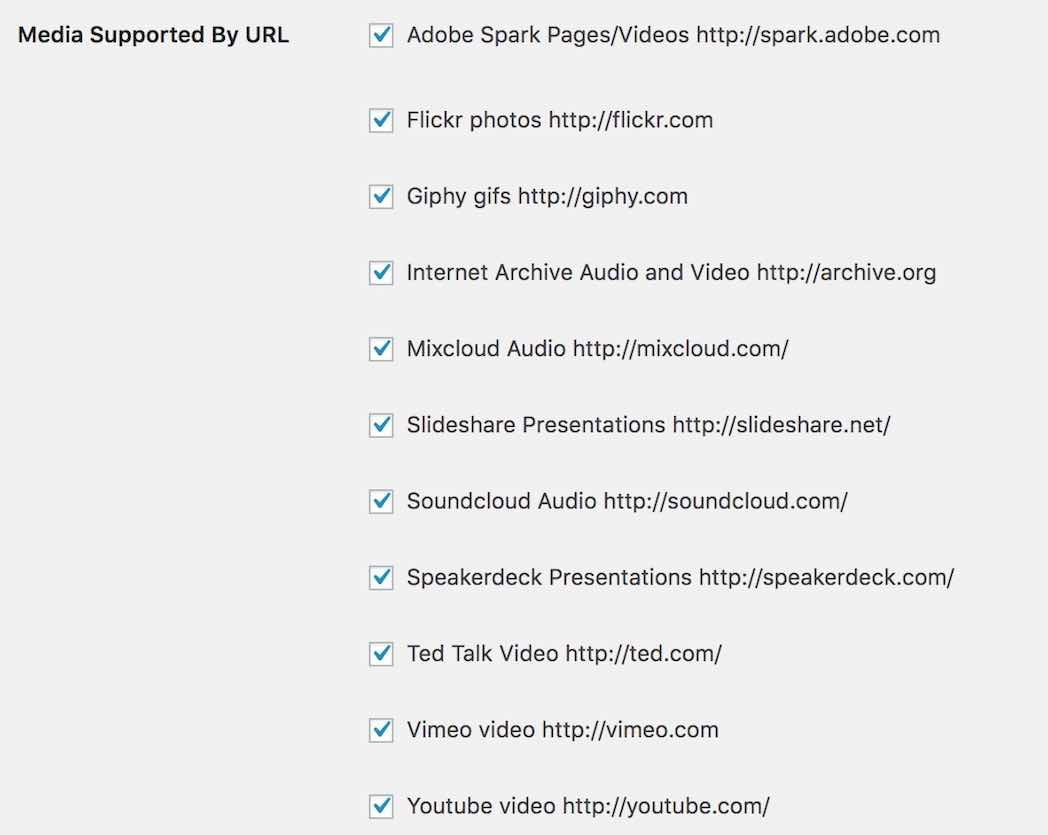
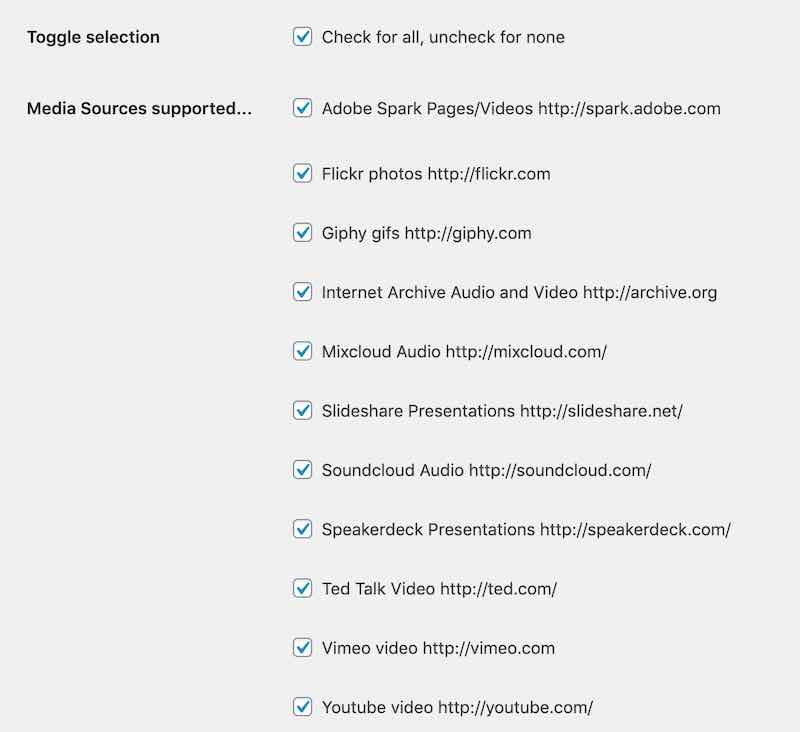
Audio Recording Added to Docs

diff --git a/style.css b/style.css
@@ -2,8 +2,8 @@
 Theme Name: 	Splotbox
 Theme URI: 		http://github.com/cogdog/splotbox
 Description: 	SPLOT Media Collector (Child of Garfunkel)
-Version: 		2.13
-Template:       garfunkel
+Version: 		3.0
+Template:   garfunkel
 Author: 		CogDog
 Author URI: 	https://cog.dog/
 License: GNU General Public License v2.0 & Apache License 2.0
@@ -63,7 +63,7 @@ License URI: http://www.gnu.org/licenses/gpl-2.0.html http://www.apache.org/lice
 }
 
 .mobile-menu .search-field:hover, .mobile-menu .search-field:focus {
-		background: #ca2017; 
+		background: #ca2017;
 		color: #fff;
 }
 
@@ -111,9 +111,9 @@ a.download-link {
 	background-position: 95% center;
 }
 
-a.download-link:hover { 
+a.download-link:hover {
 	padding-right: 40px;
-	background-image: url(images/icons/1x/download-c.png); 
+	background-image: url(images/icons/1x/download-c.png);
 	background-repeat: no-repeat;
 	background-position: 95% center;
 }
@@ -130,7 +130,7 @@ a.download-link:hover {
 
 /* some pretty buttons all done in CSS
    h/t http://www.graemeboy.com/modern-css-buttons */
-   
+
     .pretty-button, .post-content input.pretty-button {
 		padding: 12px 16px;
 		margin: 0;
@@ -139,13 +139,13 @@ a.download-link:hover {
 		font-size: 0.9rem;
 		line-height: 1;
 		-webkit-appearance: none;
-		border-radius: 3px;  
+		border-radius: 3px;
     	font-family: 'Fira Sans', sans-serif;
         text-decoration: none;
         text-align: center;
-        display: inline-block      
+        display: inline-block
     }
-    
+
     /* user actions on the buttons. */
     .pretty-button:hover, .post-content input.pretty-button:hover {
         text-decoration: none;
@@ -156,9 +156,9 @@ a.download-link:hover {
         -moz-box-shadow: inset 0px 1px 0px rgba(255, 255, 255, 0.3), inset 0px -1px 1px rgba(255, 255, 255, 0.05), 0px 1px 0px #777777, 0px 3px 3px rgba(0, 0, 0, 0.03);
         box-shadow: inset 0px 1px 0px rgba(255, 255, 255, 0.03), inset 0px -1px 1px rgba(255, 255, 255, 0.05), 0px 1px 0px #777777, 0px 3px 3px rgba(0, 0, 0, 0.03)
     }
-        
+
     /* The next blocks of code are specific to the color. Copy the color you want. */
-     
+
     .pretty-button-gray, .post-content input.pretty-button-gray {
         background: #333;
     }
@@ -167,7 +167,7 @@ a.download-link:hover {
         background: #ca2017;
         text-decoration: none;
     }
-   
+
 /* ------------------------------  alert/message boxes --------------------------------*/
 /* h/t http://aviaryan.github.io/blog/css-notification-bubble-box.html */
 
@@ -191,8 +191,8 @@ a.download-link:hover {
 .icon-excl:before { content: '!'; }
 
 .notify {
-    background-color:#e3f7fc; 
-    color:#555; 
+    background-color:#e3f7fc;
+    color:#555;
     border:.1em solid;
     border-color: #8ed9f6;
     border-radius:10px;
@@ -219,7 +219,7 @@ a.download-link:hover {
 #splotboxform label {
 	font-size: 1.2em;
 	display: block;
-	margin-top: 1em;	
+	margin-top: 1em;
 }
 
 #splotboxform .required, .notify .required  {
@@ -269,7 +269,7 @@ a.download-link:hover {
 	color: #fff;
 }
 
-#splotboxform a.disabled, #splotboxform input[type="submit"][disabled] {
+#splotboxform a.disabled, #splotboxform input[type="submit"][disabled], #splotboxform input[type="button"][disabled] {
    pointer-events: none;
    cursor: default;
    opacity:0.4;
@@ -337,8 +337,78 @@ img#mediathumb {
 	word-break: break-word;
 	font-family: 'Open Sans', sans-serif;
 	font-size: 1em;
-	font-weight:bold;  
+	font-weight:bold;
 	color: #333;
 }
 
 
+/* --------------------------------  audio recorder -----------------------------------*/
+
+
+#wMediaRecorder {
+  background-color: #493657;
+}
+
+.vjs-icon-record-start {
+    color: red!important;
+ }
+
+ .recordermsg {
+    padding: 0.4rem;
+    font-family: monospace;
+    text-align: center;
+    background-color: #333446;
+    color:#eee;
+    width:100%;
+}
+
+#wUploadRecording {
+    display: block;
+    background: #555;
+    margin: 1em auto;
+}
+
+#wUploadRecording:hover {
+	cursor: pointer;
+	background: #ca2017!important;
+	color: #fff!important;
+}
+
+/* secret interceptor to trap record button clicks */
+#countrecwrapper {
+    position: relative;
+}
+
+#countrec {
+    width: 2em;
+    height: 1.5em;
+    position: absolute;
+    /* background-color: yellow; */
+    left: 0;
+    bottom: 0;
+    z-index: 10;
+}
+
+/* overlay div for counter display */
+#countingwrapper {
+  width: inherit;
+  height:0px;
+  position:relative;
+  z-index: -5;
+}
+
+/* counter circle */
+#countdown {
+  width: 6rem;
+  height: 6rem;
+  border-radius: 50%;
+  font-size: 3rem;
+  color: #fff;
+  line-height: 6rem;
+  text-align: center;
+  background: red;
+  position: absolute;
+  left: 50%;
+  top: 50%;
+  transform: translate(-50%, -50%);
+}

diff --git a/README.md b/README.md
@@ -1,6 +1,6 @@
 # SPLOTbox
 
-A [SPLOT](http://splot.ca/) for building collections of audio,video, and image media, kind of like a  jukebox (you do know what that is, right?).
+A [SPLOT](http://splot.ca/) for building collections of audio, video, and image media, kind of like a jukebox (you do know what that is, right?).
 
 by Alan Levine https://cog.dog or http://cogdogblog.com/
 
@@ -36,9 +36,16 @@ In addition, special code has been added to support similarly for:
 * Internet Archive audio or video
 
 And in this new version, we are offering a third, cool option:
-* record audio directly
+* record audio directly = currently available on a demo site at https://lab.cogdogblog.com/splotbox
 
-Media can also be added by any direct URL to audio in mp3, ogg, or m4a formats or  jpg, png, or gif images. Site owners can also enable an upload button for image and sound files in mp3, ogg, or m4a (audi0) or jpg, png, gif (image). 
+Media can also be added by any direct URL to audio in mp3, ogg, or m4a formats or  jpg, png, or gif images. Site owners can also enable an upload button for image and sound files in mp3, ogg, or m4a (audi0) or jpg, png, gif (image) as well as a using a built in audio recorder.
+
+![](images/media-method.gif)
+
+Because of the underlying device recording code (using WebRTC) a user must grant access to the site to use the microphone; this in turn can only be done on a site running under SSL.
+
+![](images/splot-recorder.gif)
+
 
 Other features that can be activated to entry provide fields for (and require or not), descriptions, a credit source name and a selection of a reuse licenses.
 
@@ -62,7 +69,8 @@ SPLOTbox was evolved from an earlier [Sound Collector](http://splot.ca/splots/tr
 * [Open Pedagogy Playlist](http://openpedagogyplaylist.com/) by Chad Flinn
 * [OWLTECH Perspectives](http://perspectives.owlteh.org/) Open Web For Learning & Teaching Expertise Hub -- a series of videos contributed by educators and learners who are actively engaged in using the Open Web within their practice.
 * [MURSDLeads Author Series](http://eduquinn.com/Interviews/) interviews with leading education authors
-* [SPLOTbox](http://splot.ca/box/) - the demo site
+* [SPLOTbox](http://splot.ca/box/) - one demo site
+* [SPLOtbox Deluxe](https://lab.cogdogblog.com/splotbox) - anther demo site for the newest features
 * [TARUC @ UC 2019](http://georgehaughie.coventry.domains/TARUC2019/)
 
 [Find more in The Google](https://www.google.ca/search?q="SPLOTbox+theme+is+based+on+Garfunkel"+-site:splot.ca)?
@@ -72,14 +80,12 @@ If you make a SPLOTbox site, please please pretty *please* fork this repo to edi
 If you have problems, feature suggestions, piles of unmarked bills to send my way, please [contact me via the issues area](https://github.com/cogdog/splotbox/issues) on this repo.
 
 ## Requirements
-I will make the big leap in that you have a self hosted Wordpress site and can install themes. The SPLOTbox theme is a child theme based on the  [Garfunkle theme by Anders Noren](https://wordpress.org/themes/garfunkel). Install that first from your Wordpress Dashboard.
 
-Then install the splotbox theme to Wordpress directly by ftping or using the downloaded ZIP for this repo.
-
+I will make the big leap in that you have a self hosted Wordpress site and can install themes.
 
 ### Installing SPLOTbox from Scratch
 
-Using this theme requires a self-hosted--or institutionally hosted (lucky you)-- Wordpress site (the kind that you download from [wordpress.org](http://www.wordpress.org). You cannot use this theme on the free "wordpress.com" site. Maybe check out [Reclaim Hosting](https://reclaimhosting.com/) if you need to set up your own hosting space. 
+Using this theme requires a self-hosted--or institutionally hosted (lucky you)-- Wordpress site (the kind that you download from [wordpress.org](http://www.wordpress.org). You cannot use this theme on the free "wordpress.com" site. Maybe check out [Reclaim Hosting](https://reclaimhosting.com/) to set up your own hosting space. 
 
 SPLOTbox is a child theme based on [the free and elegant Garfunkel theme by Anders Noren](https://wordpress.org/themes/garfunkel). Install this theme first from within the Wordpress Dashboard under **Appearance** -- **Themes** searching on `Gardfunkel`.
 
@@ -89,7 +95,7 @@ The zip can be uploaded directly to your site via **Add Themes** in the Wordpres
 
 To get SPLOTbox working all you need to do is activate the "SPLOTbox" theme when it appears in your Wordpress dashboard under **Appearance** --> **Themes**. 
 
-In this theme posts are renamed **items** and thus on the dashboard:
+In this theme, posts are renamed **items** and thus on the dashboard:
 
 ![](images/items-menu.jpg)
 
@@ -112,17 +118,6 @@ If you are updating a site built with a previous version of the theme and someth
 ## Setting Up The Site Via SPLOTbox options
 
 These instructions are a reference for the settings within the SPLOTbox; if you are reading this, you got as far as installing and activating the theme. Below are basic instructions for all of the theme options, which, if this were designed well, you likely do not need me to explain, but #BecauseDocumentation here we go. 
-
-
-## Browse by Licenses
-
-As of version 1.1 SPLOTbox provides links that display archives of content that have the same reuse license (if the feature is activated via the SPLOTbox options). This page is created automatically on new sites, or simply by activating the theme again (activate the parent Garfunkel, then activate SPLOTbox again).
-
-This page (see [example](http://splot.ca/box/licensed/)) provides links to view all content with the licenses available on the sharing form. The url including `licensed/cc-by` yields all items with a Creative Commons CC By Attribution license [example](http://splot.ca/box/licensed/cc-by).
-
-Use the page to find links to the ones you wish to use and add to your site's menus or widgets. If the links do not work, you may have to go to **Settings** -- **Permalinks** and just click save to regenerate the settings.
-
-For extra flexibility there is a `[licensed]` shortcode that can be used in a widget or any page to display the same index list in a sidebar. By default, it lists only licenses used (e.g. it skips licenses with zero uses); to show all licenses, use the code `[licensed show="all"]`.
 
 
 ### Theme Options and Settings
@@ -166,13 +161,17 @@ Check **Enable Comments on Items**  to add a standard blog comment field at the 
 
 The checkboxes here allow you to control the types of sites that are able to add content directly to a SPLOTbox site by URL only (using WordPress embed or built in support for Internet Archive and Adobe Spark). This would allow you to maintain a site for only certain sources, say only video from YouTube or vimeo.
 
-These checkboxes **should** be enabled, but you may have to manually set them.
+These checkboxes **should** be enabled on a new install, but you may have to manually set them use the "Select All" box.
 
 ![](images/media-support.jpg)
 
-Also, if you only want visitors adding media by URL, you can hide the uploader. And you can set a limit for upload size.
+If you only want visitors adding media by URL, you can hide the uploader. And you can set a limit for upload size.
 
 ![](images/media-uploads.jpg)
+
+Finally, you can also enable an audio recorder as an option for adding to a SPLOTbox site (audio is directly saved to the Media Library). This can only be enabled if a site is running under SSL (if not you will not see these settings). You can also set a limit the length of audio recording time.
+
+![](images/audio-recorder-setting.jpg)
 
 ## Item Sorting 
 
@@ -231,9 +230,21 @@ And then you will see a series of fields to edit for all form field elements. Fo
 
 ![](images/customizer-edit.jpg)
 
+## View By License Page
+
+SPLOTbox provides links that display archives of content that have the same reuse license (if the feature is activated via the SPLOTbox options). This page is created automatically on new sites, or simply by activating the theme again (activate the parent Garfunkel, then activate SPLOTbox again).
+
+[This example](http://splot.ca/box/licensed/)) provides links to view all content with the licenses available on the sharing form. The url including `licensed/cc-by` yields all items with a Creative Commons CC By Attribution license [example](http://splot.ca/box/licensed/cc-by).
+
+Use the page to find links to the ones you wish to use and add to your site's menus or widgets. If the links do not work, you may have to go to **Settings** -- **Permalinks** and just click save to regenerate the settings.
+
+For extra flexibility there is a `[licensed]` shortcode that can be used in a widget or any page to display the same index list in a sidebar. By default, it lists only licenses used (e.g. it skips licenses with zero uses); to show all licenses, use the code `[licensed show="all"]`.
+
+
+
 ## Other Wordpressy Things You Might Want to Do
 
-I like short links, so I typically use a Custom Permalink setting (under `Settings -- Permalinks`) of `/%post_id%/'
+I like shorter links than using a title, so I typically use a Custom Permalink setting (under `Settings -- Permalinks`) of `/%post_id%/'
 
 ![Simplest Permalink](images/permalink.jpg "custom permalink") 
 
@@ -253,6 +264,9 @@ With a bit of coding elbow grease, this theme is set up to expand the services y
 
 ## Relatively Cool New Features & Updates
 
+
+* (3.0) HTML5 Audio recorder support 
+* (2.2) Admin options to select all / none for media sites, fixed bug where drafts were visible on front page
 * (2.1) Better formatting for Internet Archive audio, and new checking for supported media types from the archive, added missing Customizer editing for all form labels, made new admin bar link to open Customizer to Sharing Form
 * (2.0) A big revamp, removing the need for special user accounts and secret logins. No logins are used to add content. The theme us much simpler, there is no special desk page for routing the access code. And the sharing form now has radio buttons that toggle the two different means of upload (by URL or by Upload)
 * (1.9) Support included now for Giphy, Mixcloud, Flickr, Speakerdeck, and Slideshare, plus uploads now include ability to add images. The theme options can be used to limit the sites enabled. Also, the theme no longer needs a separate page for the random link generator (it's done all with code).
